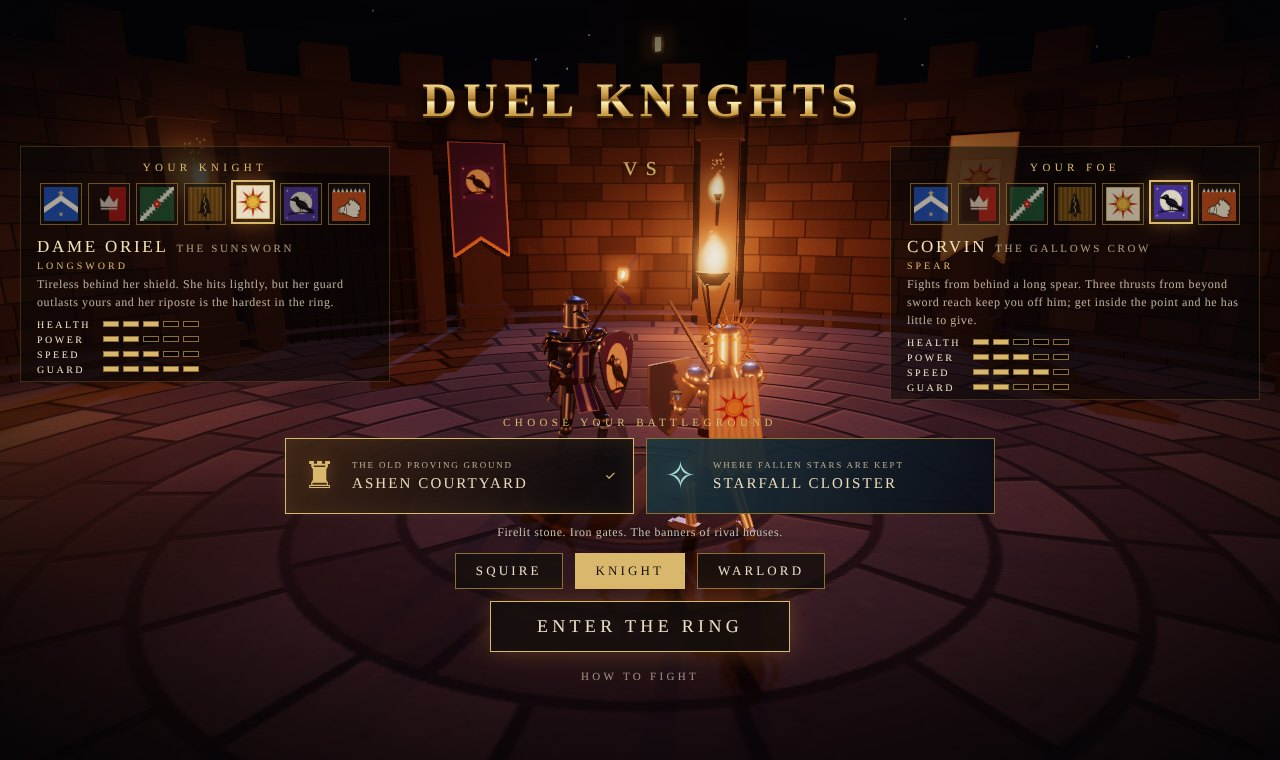
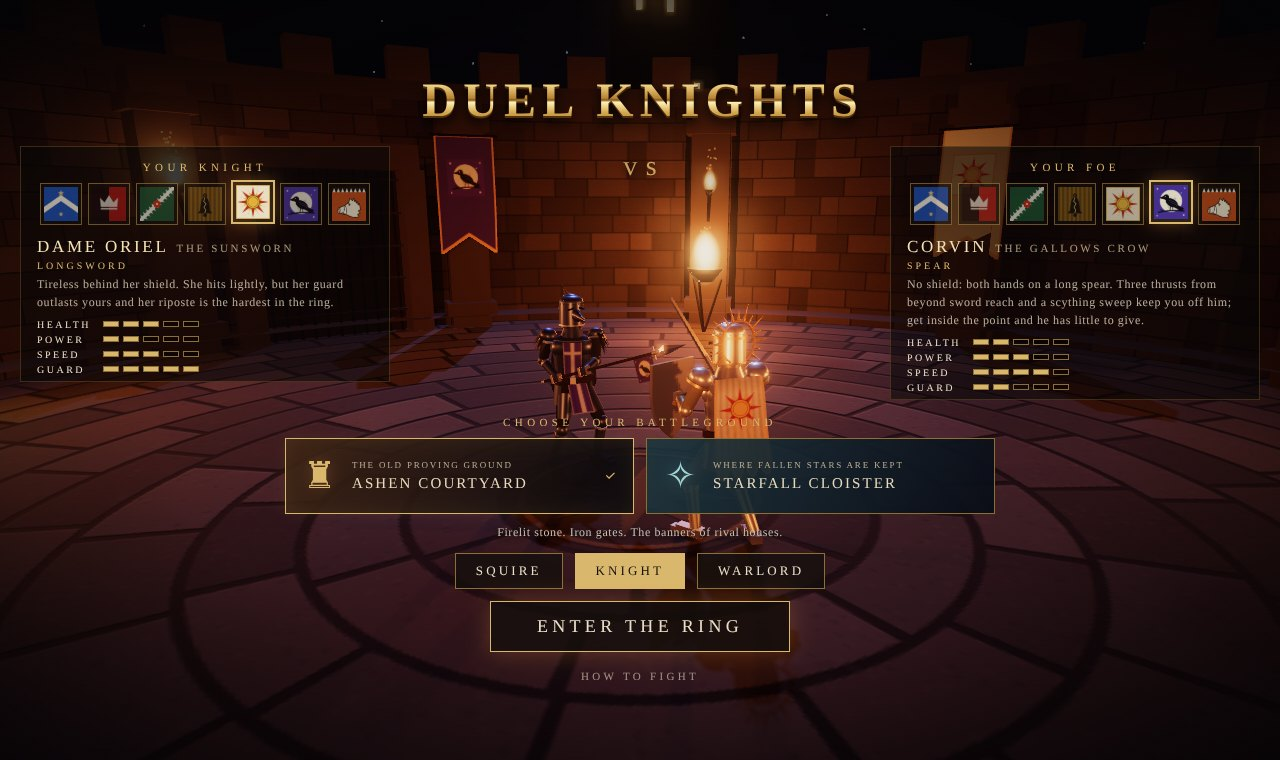
Fix raised elbows, turn the axe edge into its cuts, give Corvin a two-handed spear
Elbows (all knights): the arm solver always pointed the elbow down and
back, so an arm raised for an overhead or in the victory pose folded
behind the head. The elbow now swings out to the front as the hand rises
past the shoulder.

Axe: the head was fixed in the hand, so Sigrun's two sideways cuts landed
with the flat. A weapon flagged `edge` now turns in the hand so its edge
leads each attack's direction of travel (worked out per move from its
keyframes), easing in over the windup and out over the recovery.

Corvin: no shield, both hands on a two-metre spear.
- The right hand drives the spear from the butt; the left takes the haft
  where it passes the chest, lets it slide during thrusts and lets go when
  it is out of reach (staggers, the one-handed victory pose).
- His guard is the haft thrown across the body; blows are tested against
  the haft between the hands instead of a shield.
- The heavy is now a scything sweep, left to right at chest height,
  replacing the overhand stab. The three thrusts are re-posed for two
  hands.
- His arms fly on a pennon under the spearhead, now that he has no shield.
- Weapons can override any named pose; staggers return to the weapon's own
  guard.

Balance over 32 AI-vs-AI matches per pairing: every knight between 44% and
55% (Corvin 47, Sigrun 52, Oriel 49).

Claude-Session: https://claude.ai/code/session_01GR2nA9mo2KuG2KDQ4hQ3gR

diff --git a/src/fighter.js b/src/fighter.js
@@ -53,7 +53,15 @@ class Trail{
 
 /* ───────────────────────── fighter ───────────────────────── */
 const _q={hInv:new THREE.Quaternion(),cInv:new THREE.Quaternion(),all:new THREE.Quaternion(),d:new THREE.Quaternion(),f:new THREE.Quaternion(),
-  m:new THREE.Matrix4(),x:V(),y:V(),z:V(),t:V(),pole:V(),e:new THREE.Euler(0,0,0,'YXZ')};
+  m:new THREE.Matrix4(),x:V(),y:V(),z:V(),t:V(),pole:V(),e:new THREE.Euler(0,0,0,'YXZ'),
+  wq:new THREE.Quaternion(),wr:V(),wy:V(),g:V(),v:V()};
+const smooth=u=>{u=clamp(u,0,1);return u*u*(3-2*u);};
+/** where an elbow points. Low hands keep it down and back; as the hand rises past the shoulder it swings
+    out to the front, so a raised arm folds forward over the shoulder instead of bending behind the head. */
+const elbow=(pole,side,handY)=>{const k=smooth((handY-SH_R.y+.12)/.42);return pole.set(side*(.55+.25*k),-1+.9*k,-.35+1.05*k);};
+/* a two-handed weapon: the left hand takes the haft nearest this point in front of the chest (chest frame),
+   lets it slide between GRIP[0] and GRIP[1] from the right hand, and lets go when the haft is out of reach */
+const GRIP_AT=V(.15,.2,.34),GRIP=[.12,.55];
 export class Fighter{
   /** char: an entry from characters.js · look: optional overrides (used for mirror matches) */
   constructor(char,isPlayer,look={}){
@@ -85,12 +93,14 @@ export class Fighter{
     this.blocking=false;this.blockT=9;this.lastBlockDown=-9;this.parryOK=false;this.iframes=false;
     this.buf=null;this.bufT=0;this.swingHit=false;this.swingContact=false;this.chainLock=false;
     this.flP=0;this.flPv=0;this.flR=0;this.flRv=0;this.walk=0;this.t=0;this.stance=null;this.stepSide=0;this.victory=false;this.rest=false;
-    this.dodgeDir=V();this.trail.str.fill(0);this.setStance('guard',.01);this.clip.t=1;
+    this.dodgeDir=V();this.roll=0;this.gripW=0;this.trail.str.fill(0);this.setStance('guard',.01);this.clip.t=1;
     this.animate(0);this.root.updateMatrixWorld(true);this.readBlade();this.pBlade[0].copy(this.blade[0]);this.pBlade[1].copy(this.blade[1]);
   }
   get fwd(){return _q.t.set(Math.sin(this.yaw),0,Math.cos(this.yaw));}
   setClip(keys){this.clip={t:0,keys:[{t:0,p:this.pose.slice(),e:0},...keys]};}
-  setStance(n,t=.16){if(this.stance!==n){this.stance=n;this.setClip([{t,p:this.weapon.poses?.[n]||POSE[n],e:1}]);}}
+  /** a named pose, as this fighter's weapon holds it */
+  poseOf(n){return this.weapon.poses?.[n]||POSE[n];}
+  setStance(n,t=.16){if(this.stance!==n){this.stance=n;this.setClip([{t,p:this.poseOf(n),e:1}]);}}
   useStam(c){if(this.stam<=0){if(this.isPlayer)this.onStamFail();return false;}
     this.stam-=c;this.regenDelay=.85;if(this.stam<=0){this.stam=0;this.regenDelay=1.6;}return true;}
   startAttack(id){
@@ -105,16 +115,17 @@ export class Fighter{
     if(m>.25)this.dodgeDir.set(I.mx/m,0,I.mz/m);else this.dodgeDir.copy(this.fwd).multiplyScalar(-1);
     this.state='dodge';this.st=0;this.stDur=.44;this.blocking=false;this.lastBlockDown=this.t;this.stance=null;this.buf=null;
     const side=this.dodgeDir.x*Math.cos(this.yaw)-this.dodgeDir.z*Math.sin(this.yaw);
-    const dp=POSE.dodge.slice();dp[14]=-side*.35;
-    this.setClip([{t:.1,p:dp,e:2},{t:.3,p:dp,e:0},{t:.44,p:POSE.guard,e:1}]);
+    const dp=this.poseOf('dodge').slice();dp[14]=-side*.35;
+    this.setClip([{t:.1,p:dp,e:2},{t:.3,p:dp,e:0},{t:.44,p:this.poseOf('guard'),e:1}]);
     Snd.dodge();FX.dust(this.pos,3);this.emit('dodge');return true;
   }
   stun(kind,dur){
     this.state=kind;this.st=0;this.stDur=dur;this.blocking=false;this.lastBlockDown=this.t;this.stance=null;this.buf=null;this.atk=null;this.iframes=false;
-    if(kind==='hit'){const s=Math.random()<.5?1:-1;this.setClip([K(.08,{cy:s*.4,cp:-.26,hy:-.04,rh:[-.52,.2,.1],rd:[-.5,.5,.7],lh:[.4,.25,.2],ld:[.6,0,.8]},2),K(dur+.1,{})]);}
-    else if(kind==='parried')this.setClip([{t:.12,p:POSE.stagger,e:2},K(dur-.25,{cy:.36,cp:-.24,hy:-.08,rh:[-.62,.22,.0],rd:[-.8,.05,.6],lh:[.5,.2,.1],ld:[.9,0,.4]},0),K(dur,{})]);
-    else if(kind==='broken')this.setClip([{t:.12,p:POSE.broken,e:2},{t:dur-.25,p:POSE.broken,e:0},K(dur,{})]);
-    else this.setClip([K(.08,{cy:-.5,cp:-.15,rh:[-.55,.55,-.05],rd:[-.5,.8,-.2]},2),K(dur,{})]);
+    const G=(t,e=1)=>({t,p:this.poseOf('guard'),e}); // every stagger ends back in this weapon's guard
+    if(kind==='hit'){const s=Math.random()<.5?1:-1;this.setClip([K(.08,{cy:s*.4,cp:-.26,hy:-.04,rh:[-.52,.2,.1],rd:[-.5,.5,.7],lh:[.4,.25,.2],ld:[.6,0,.8]},2),G(dur+.1)]);}
+    else if(kind==='parried')this.setClip([{t:.12,p:POSE.stagger,e:2},K(dur-.25,{cy:.36,cp:-.24,hy:-.08,rh:[-.62,.22,.0],rd:[-.8,.05,.6],lh:[.5,.2,.1],ld:[.9,0,.4]},0),G(dur)]);
+    else if(kind==='broken')this.setClip([{t:.12,p:POSE.broken,e:2},{t:dur-.25,p:POSE.broken,e:0},G(dur)]);
+    else this.setClip([K(.08,{cy:-.5,cp:-.15,rh:[-.55,.55,-.05],rd:[-.5,.8,-.2]},2),G(dur)]);
   }
   turn(rate,dt){const d=angDiff(this.yaw,this.intent.face),m=rate*dt;this.yaw+=clamp(d,-m,m);}
   update(dt){
@@ -194,13 +205,27 @@ export class Fighter{
     // right arm → weapon
     Q.t.set(p[0],p[1],p[2]).applyQuaternion(Q.hInv).sub(CHEST_OFF).applyQuaternion(Q.cInv);
     Q.y.set(p[3],p[4],p[5]).normalize();Q.x.crossVectors(Q.y,UP);if(Q.x.lengthSq()<1e-4)Q.x.set(1,0,0);Q.x.normalize();Q.z.crossVectors(Q.x,Q.y);
+    if(this.weapon.edge){ // a one-edged weapon turns in the hand so its edge (the hand's −Z) leads the cut
+      let roll=0;const a=this.atk;
+      if(this.state==='attack'&&a){const st=this.st,v=Q.v.fromArray(a.swing);v.addScaledVector(Q.y,-v.dot(Q.y));
+        const w=st<a.wind?smooth((st/a.wind-.2)/.6):st<a.wind+a.act?1:1-smooth((st-a.wind-a.act)/(a.rec*.6));
+        if(v.lengthSq()>.04)roll=Math.atan2(v.dot(Q.x),-v.dot(Q.z))*w;}
+      this.roll=dt>0?damp(this.roll,roll,26,dt):roll;
+      const c=Math.cos(this.roll),sn=Math.sin(this.roll);Q.v.copy(Q.x);Q.x.multiplyScalar(c).addScaledVector(Q.z,sn);Q.z.multiplyScalar(c).addScaledVector(Q.v,-sn);
+    }
     Q.d.setFromRotationMatrix(Q.m.makeBasis(Q.x,Q.y,Q.z)).premultiply(Q.all);
-    ik2(b.uaR,b.faR,SH_R,Q.t,Q.pole.set(-.55,-1,-.35),UA,FA,Q.f);b.hR.quaternion.copy(Q.f).invert().multiply(Q.d);
-    // left arm → shield
+    Q.wr.copy(Q.t);Q.wq.copy(Q.d);Q.wy.copy(Q.y).applyQuaternion(Q.all); // the weapon in the chest's frame, for a second hand
+    ik2(b.uaR,b.faR,SH_R,Q.t,elbow(Q.pole,-1,Q.t.y),UA,FA,Q.f);b.hR.quaternion.copy(Q.f).invert().multiply(Q.d);
+    // left arm → shield, or the haft of a two-handed weapon
     Q.t.set(p[6],p[7],p[8]).applyQuaternion(Q.hInv).sub(CHEST_OFF).applyQuaternion(Q.cInv);
     Q.z.set(p[9],p[10],p[11]).normalize();Q.x.crossVectors(UP,Q.z).normalize();Q.y.crossVectors(Q.z,Q.x);
     Q.d.setFromRotationMatrix(Q.m.makeBasis(Q.x,Q.y,Q.z)).premultiply(Q.all);
-    ik2(b.uaL,b.faL,SH_L,Q.t,Q.pole.set(.6,-1,-.3),UA,FA,Q.f);b.hL.quaternion.copy(Q.f).invert().multiply(Q.d);
+    if(this.weapon.twoHanded){
+      const g=clamp(Q.g.copy(GRIP_AT).sub(Q.wr).dot(Q.wy),GRIP[0],GRIP[1]);Q.g.copy(Q.wr).addScaledVector(Q.wy,g);
+      const w=this.gripW=smooth((Q.g.distanceTo(SH_L)-(UA+FA)*.97)/.14); // 0 = holding the haft, 1 = let go (the pose's own left hand)
+      Q.t.lerpVectors(Q.g,Q.t,w);Q.d.slerpQuaternions(Q.wq,Q.d,w);
+    }
+    ik2(b.uaL,b.faL,SH_L,Q.t,elbow(Q.pole,1,Q.t.y),UA,FA,Q.f);b.hL.quaternion.copy(Q.f).invert().multiply(Q.d);
     // legs: planted stance + stride cycle
     const A_=.25*amp,dxl=sp>.01?lx/sp:0,dzl=sp>.01?lz/sp:0;
     for(let s=0;s<2;s++){

diff --git a/src/moves.js b/src/moves.js
@@ -65,24 +65,37 @@ export const MACE={
   heavy:slow(maceHeavy,1.1,{dmg:30,cost:30,lunge:3.5,stun:.72,kb:6.8,bs:50,chip:5}),
 };
 
-/* the spear — all point. Three thrusts from well outside sword reach and an overhand stab.
+/* the spear — held in both hands, no shield: the right hand at the butt drives it, the haft slides through the left.
+   Three thrusts from well outside sword reach, then a scything sweep with the whole length of the haft.
    Light on stamina and it shoves the foe back, but each wound is small and a shield turns it easily. */
-const JAB={cy:.36,cp:.16,hy:-.08,hz:.16,sf:.22,rh:[-.10,.40,.56],rd:[.02,0,1]},
-  JAB2={cy:.38,cp:.13,hy:-.06,hz:.14,sf:.2,rh:[-.08,.52,.56],rd:[0,.05,1]},
-  LUNGE={cy:.5,cp:.26,hy:-.16,hz:.26,sf:.36,rh:[-.06,.36,.58],rd:[.02,-.02,1]},
-  STAB={cy:.4,cp:.38,hy:-.16,hz:.16,sf:.3,rh:[-.08,.5,.56],rd:[.02,-.5,.87]};
+const SG={cy:-.55,rh:[-.2,.1,0],rd:[.24,.32,.92]};                    // on guard: butt at the right hip, point at the foe's throat
+const S=(t,o={},e=0)=>({t,p:P({...SG,...o}),e});
+const JAB={cy:-.45,cp:.14,hy:-.08,hz:.16,sf:.22,rh:[-.1,.3,.28],rd:[.04,.04,1]},
+  JAB2={cy:-.45,cp:.12,hy:-.06,hz:.14,sf:.2,rh:[-.1,.4,.28],rd:[.02,.08,1]},
+  LUNGE={cy:-.4,cp:.26,hy:-.16,hz:.28,sf:.36,rh:[-.08,.3,.3],rd:[.03,0,1]},
+  SWEPT={cy:-.55,cp:.18,hy:-.12,hz:.16,sf:.25,rh:[.2,.32,.01],rd:[-.55,-.02,.84]};
+export const SPEAR_POSES={
+  guard:P(SG),
+  block:P({cy:-.3,cp:.06,hy:-.06,rh:[-.27,.26,.28],rd:[.86,.34,.38]}),       // the haft thrown across the body
+  parryPunch:P({cy:-.5,cp:.1,hy:-.05,rh:[-.26,.32,.4],rd:[.84,.3,.45]}),
+  dodge:P({cy:-.3,cp:.4,hy:-.24,rh:[-.2,.1,.04],rd:[.2,.26,.94]}),
+  // one-handed: planted upright at the side, the free hand open
+  taunt:P({cy:.1,cp:-.03,hy:.02,rh:[-.46,.12,.14],rd:[-.32,.9,.28],lh:[.38,.10,.12],ld:[.85,0,.5]}),
+  rest:P({cy:0,cp:0,rh:[-.42,.2,.12],rd:[-.05,1,.07],lh:[.3,.15,.22],ld:[.5,0,.86]}),
+};
 export const SPEAR={
   l1:{kind:'light',next:'l2',wind:.27,act:.10,rec:.40,dmg:7,cost:10,lunge:2.6,stun:.28,kb:3.0,bs:10,chip:0,keys:[
-    A(.27,{cy:-.5,hy:-.04,rh:[-.38,.36,-.06],rd:[.04,.06,1]},2),A(.33,JAB,3),A(.44,JAB),K(.77,{})]},
+    S(.27,{cy:-.8,hy:-.04,rh:[-.3,.16,-.2],rd:[.14,.16,.98]},2),S(.33,JAB,3),S(.44,JAB),S(.77,{},1)]},
   l2:{kind:'light',next:'l3',wind:.21,act:.10,rec:.42,dmg:8,cost:10,lunge:2.4,stun:.28,kb:3.0,bs:10,chip:0,keys:[
-    A(.21,{cy:-.45,hy:-.03,rh:[-.36,.48,-.02],rd:[.03,0,1]},2),A(.27,JAB2,3),A(.38,JAB2),K(.73,{})]},
+    S(.21,{cy:-.8,hy:-.03,rh:[-.3,.24,-.18],rd:[.12,.1,.99]},2),S(.27,JAB2,3),S(.38,JAB2),S(.73,{},1)]},
   l3:{kind:'light',next:null,wind:.30,act:.12,rec:.60,dmg:12,cost:13,lunge:3.6,stun:.36,kb:4.4,bs:14,chip:0,keys:[
-    A(.30,{cy:-.65,hy:-.08,rh:[-.38,.30,-.1],rd:[.05,.08,1]},2),A(.37,LUNGE,3),A(.56,LUNGE),K(1.02,{})]},
-  heavy:{kind:'heavy',next:null,wind:.60,act:.14,rec:.64,dmg:22,cost:25,lunge:3.6,stun:.58,kb:6.2,bs:34,chip:3,poise:.3,keys:[
-    A(.26,{cy:-.3,cp:-.06,rh:[-.36,.72,-.02],rd:[0,.5,.86]},1),
-    A(.60,{cy:-.5,cp:-.14,hy:.03,rh:[-.34,1.0,-.2],rd:[.02,-.2,.98]},2),   // couched overhead, point on the foe
-    A(.66,{cy:.1,cp:.2,hy:-.08,hz:.1,rh:[-.16,.8,.3],rd:[.02,-.38,.92]},3),
-    A(.72,STAB),A(.94,STAB),K(1.38,{})]},
+    S(.30,{cy:-.9,hy:-.1,rh:[-.3,.12,-.24],rd:[.14,.14,.98]},2),S(.37,LUNGE,3),S(.56,LUNGE),S(1.02,{},1)]},
+  heavy:{kind:'heavy',next:null,wind:.60,act:.14,rec:.64,dmg:22,cost:25,lunge:3.2,stun:.58,kb:6.2,bs:34,chip:3,poise:.3,keys:[
+    S(.26,{cy:.1,cp:-.04,rh:[-.26,.26,.12],rd:[.7,.2,.68]},1),               // the point swings out to the left…
+    S(.60,{cy:.35,cp:-.08,hy:.02,rh:[-.27,.25,.13],rd:[.86,.22,.46]},2),     // …and is wound back
+    S(.66,{cy:0,cp:.1,hy:-.06,hz:.08,rh:[-.05,.3,.02],rd:[.2,.08,.98]},3),
+    S(.72,{cy:-.4,cp:.16,hy:-.1,hz:.14,sf:.2,rh:[.16,.32,.02],rd:[-.42,0,.9]}),
+    S(.76,SWEPT),S(.96,SWEPT),S(1.40,{},1)]},
 };
 
 /* the war axe — two hewing cuts into a chop. It bites deepest of all on flesh,
@@ -99,10 +112,17 @@ export const AXE={
   heavy:slow(SWORD.heavy,1.04,{dmg:34,cost:27,lunge:3.3,stun:.66,kb:6,bs:40,chip:3}),
 };
 
+/** which way an attack's point travels while it can wound, in the knight's frame (for turning an edge into the cut) */
+function swingDir(a){
+  const tip=t=>{const k=a.keys;let i=1;while(i<k.length-1&&t>k[i].t)i++;const A=k[i-1].p,B=k[i].p,u=Math.min(1,Math.max(0,(t-k[i-1].t)/(k[i].t-k[i-1].t||1)));
+    const q=j=>A[j]+(B[j]-A[j])*u,l=Math.hypot(q(3),q(4),q(5))||1;return [q(0)+q(3)/l*.8,q(1)+q(4)/l*.8,q(2)+q(5)/l*.8];};
+  const p0=tip(a.wind),p1=tip(a.wind+a.act),d=[p1[0]-p0[0],p1[1]-p0[1],p1[2]-p0[2]],l=Math.hypot(...d)||1;
+  return d.map(v=>v/l);
+}
 /** a fighter's own copy of a moveset, scaled by their attack speed and damage */
 export function buildMoves(base,{atkSpeed=1,dmg=1,heavyDmg=1}={}){
   const out={},f=1/atkSpeed;
   for(const id in base){const a=base[id];
-    out[id]=slow(a,f,{dmg:a.dmg*dmg*(a.kind==='heavy'?heavyDmg:1)});}
+    out[id]=slow(a,f,{dmg:a.dmg*dmg*(a.kind==='heavy'?heavyDmg:1),swing:swingDir(a)});}
   return out;
 }

diff --git a/src/knight.js b/src/knight.js
@@ -8,7 +8,7 @@ import {WEAPONS} from './weapons.js';
    Every knight shares one skeleton; the look options change the armour.
    o: steel, rough, trim, mail, cloth, blade (colours) · emblem · crest (fin colour)
       helm ('plume'|'horned'|'crest'|'great'|'sun'|'beak'|'boar') · mantle ('fur'|'feather': what lies over the shoulders)
-      shield ('heater'|'round'|'kite') · scale (whole body) · bulk (pauldron size) · weapon (key into WEAPONS)
+      shield ('heater'|'round'|'kite'|'none') · scale (whole body) · bulk (pauldron size) · weapon (key into WEAPONS)
       capeW, capeL (cape size; its design comes from the emblem, see CAPES in textures.js) */
 export const HIP_Y=.88, UA=.29, FA=.27, TH=.45, SHN=.43, ANKLE=.07;
 export const CHEST_OFF=V(0,.10,0), SH_R=V(-.25,.45,0), SH_L=V(.25,.45,0), HJ_L=V(.11,-.03,0), HJ_R=V(-.11,-.03,0);
@@ -169,18 +169,24 @@ export function buildKnight(o){
   };
   const lL=leg(1,HJ_L),lR=leg(-1,HJ_R);
   // weapon (grip along +Y of the hand)
-  const W=WEAPONS[o.weapon||'sword'].build({add,grp,cyl,box,sph,m},aR.hand);
-  // shield (faces +Z of the left hand)
-  const shield=grp(aL.hand,0,.02,.075);
-  const SK=SHIELDS[o.shield]||SHIELDS.heater,sh=SK.top-SK.bot,round=o.shield==='round';
-  const shp=new THREE.Shape();SK.draw(shp);shp.closePath();
-  const et=tex(emblemCanvas(o.emblem));et.repeat.set(1/SK.w,1/sh);et.offset.set(.5,-SK.bot/sh); // shape coordinates → the whole coat of arms
-  const face=new THREE.Mesh(new THREE.ShapeGeometry(shp,round?16:10),new THREE.MeshStandardMaterial({map:et,roughness:.55,metalness:.25,envMapIntensity:.6}));face.position.z=.033;face.castShadow=true;shield.add(face);
-  const body=add(new THREE.ExtrudeGeometry(shp,{depth:.03,bevelEnabled:false,curveSegments:round?16:10}),steel,shield);body.scale.set(1.05,1.05,1);body.position.y=round?-.0015:-.002;
-  if(round){add(new THREE.TorusGeometry(.292,.014,6,28),trim,shield,0,-.03,.03); // an iron rim and studs; no boss, so the arms stay whole
-    baked(shield,g=>{for(let i=0;i<8;i++){const a=i/8*Math.PI*2+.39;add(sph(.014,6,5),steel,g,Math.sin(a)*.262,-.03+Math.cos(a)*.262,.036);}});}
-  else add(sph(.05,10,8),trim,shield,0,-.02,.035).scale.z=.6;
-  const shieldC=grp(shield,0,-.03,.02);
+  const arms=()=>new THREE.MeshStandardMaterial({map:tex(emblemCanvas(o.emblem)),roughness:.7,metalness:.1,envMapIntensity:.4});
+  const W=WEAPONS[o.weapon||'sword'].build({add,grp,cyl,box,sph,m,arms},aR.hand);
+  // shield (faces +Z of the left hand). shieldC is the centre of the guard that blows are tested against;
+  // a knight with no shield guards with the weapon itself, between the hands.
+  const shield=grp(aL.hand,0,.02,.075);let shieldC;
+  if(o.shield==='none')shieldC=grp(W.g,0,.3,0);
+  else{
+    const SK=SHIELDS[o.shield]||SHIELDS.heater,sh=SK.top-SK.bot,round=o.shield==='round';
+    const shp=new THREE.Shape();SK.draw(shp);shp.closePath();
+    const fm=arms();fm.roughness=.55;fm.metalness=.25;fm.envMapIntensity=.6;
+    fm.map.repeat.set(1/SK.w,1/sh);fm.map.offset.set(.5,-SK.bot/sh); // shape coordinates → the whole coat of arms
+    const face=new THREE.Mesh(new THREE.ShapeGeometry(shp,round?16:10),fm);face.position.z=.033;face.castShadow=true;shield.add(face);
+    const body=add(new THREE.ExtrudeGeometry(shp,{depth:.03,bevelEnabled:false,curveSegments:round?16:10}),steel,shield);body.scale.set(1.05,1.05,1);body.position.y=round?-.0015:-.002;
+    if(round){add(new THREE.TorusGeometry(.292,.014,6,28),trim,shield,0,-.03,.03); // an iron rim and studs; no boss, so the arms stay whole
+      baked(shield,g=>{for(let i=0;i<8;i++){const a=i/8*Math.PI*2+.39;add(sph(.014,6,5),steel,g,Math.sin(a)*.262,-.03+Math.cos(a)*.262,.036);}});}
+    else add(sph(.05,10,8),trim,shield,0,-.02,.035).scale.z=.6;
+    shieldC=grp(shield,0,-.03,.02);
+  }
   const bones={root,hips,chest,head,cape,skirt,uaR:aR.ua,faR:aR.fa,hR:aR.hand,uaL:aL.ua,faL:aL.fa,hL:aL.hand,
     thL:lL.th,shL:lL.sh,ftL:lL.ft,thR:lR.th,shR:lR.sh,ftR:lR.ft,weapon:W.g,bBase:W.base,bTip:W.tip,shield,shieldC};
   // remember rest transforms so the ragdoll can be undone

diff --git a/src/weapons.js b/src/weapons.js
@@ -1,12 +1,15 @@
 import * as THREE from 'three';
 import {TAU} from './util.js';
-import {P,SWORD,MACE,SPEAR,AXE} from './moves.js';
+import {SWORD,MACE,SPEAR,SPEAR_POSES,AXE} from './moves.js';
 
 /* A weapon is held along +Y of the right hand.
    build() returns the weapon group plus two markers: `base` and `tip` bound the
    segment that is swept for hits. `radius` thickens that segment (a mace head is fat);
    `reach` tells the AI how far it can strike relative to a longsword.
-   `poses` (optional) replaces stances from POSE (moves.js) that do not suit the weapon. */
+   Optional: `poses` replaces stances from POSE (moves.js) that do not suit the weapon;
+   `twoHanded` puts the left hand on the haft (pair it with the look's shield:'none');
+   `edge` marks a one-edged head, built facing the hand's −Z, that turns to lead each cut.
+   build() also gets `arms()`, a material painted with the knight's coat of arms. */
 export const WEAPONS={
   sword:{name:'Longsword',moves:SWORD,radius:0,reach:1,blunt:false,
     build({add,grp,cyl,box,sph,m},hand){
@@ -30,23 +33,21 @@ export const WEAPONS={
       add(new THREE.ConeGeometry(.022,.08,6),m.blade,g,0,.9,0);   // crown spike
       return {g,base:grp(g,0,.42,0),tip:grp(g,0,.88,0)};
     }},
-  // long enough to bury its point in the ground from a sword's resting stances, so it is carried upright instead
-  spear:{name:'Spear',moves:SPEAR,radius:.012,reach:1.3,blunt:false,
-    poses:{rest:P({cy:0,cp:0,rh:[-.37,.2,.12],rd:[-.05,1,.07],lh:[.3,.15,.22],ld:[.5,0,.86]}),
-      taunt:P({cy:.1,cp:-.03,hy:.02,rh:[-.46,.12,.14],rd:[-.32,.9,.28],lh:[.38,.10,.12],ld:[.85,0,.5]})},
-    build({add,grp,cyl,box,m},hand){
-      const g=grp(hand);
-      add(cyl(.015,.017,1.6,8),m.leather,g,0,.4,0);                      // ash haft
-      add(new THREE.ConeGeometry(.02,.07,6),m.trim,g,0,-.43,0,Math.PI);   // butt spike
-      add(cyl(.021,.021,.2,8),m.trim,g);                                  // grip binding
-      add(cyl(.016,.024,.09,8),m.trim,g,0,1.2,0);                         // socket
-      add(box(.014,.014,.13),m.trim,g,0,1.17,0);                          // lugs
-      const sock=add(new THREE.CylinderGeometry(.05,.016,.07,4),m.blade,g,0,1.265,0);sock.scale.x=.3;
-      const head=add(new THREE.ConeGeometry(.05,.27,4),m.blade,g,0,1.435,0);head.scale.x=.3;
-      add(box(.004,.07,.17),m.cloth,g,0,1.1,-.1);add(box(.004,.04,.07),m.cloth,g,0,1.085,-.21); // pennon
-      return {g,base:grp(g,0,.5,0),tip:grp(g,0,1.56,0)};
+  spear:{name:'Spear',moves:SPEAR,radius:.012,reach:1.3,blunt:false,twoHanded:true,poses:SPEAR_POSES,
+    build({add,grp,cyl,box,m,arms},hand){
+      const g=grp(hand);                                                  // gripped near the butt: two metres of ash ahead of the hand
+      add(cyl(.015,.017,1.66,8),m.leather,g,0,.61,0);                     // haft
+      add(new THREE.ConeGeometry(.02,.07,6),m.trim,g,0,-.25,0,Math.PI);   // butt spike
+      add(cyl(.021,.021,.16,8),m.trim,g);add(cyl(.02,.02,.1,8),m.trim,g,0,.42,0); // bindings under each hand
+      add(cyl(.016,.024,.09,8),m.trim,g,0,1.44,0);                        // socket
+      add(box(.014,.014,.13),m.trim,g,0,1.41,0);                          // lugs
+      const sock=add(new THREE.CylinderGeometry(.05,.016,.07,4),m.blade,g,0,1.505,0);sock.scale.x=.3;
+      const head=add(new THREE.ConeGeometry(.05,.27,4),m.blade,g,0,1.675,0);head.scale.x=.3;
+      const flag=new THREE.PlaneGeometry(.24,.24);flag.rotateY(Math.PI/2);flag.rotateX(Math.PI/2); // a pennon of his arms hung under the head, upright when the spear is levelled
+      const fm=arms();fm.side=THREE.DoubleSide;add(flag,fm,g,0,1.25,-.135);
+      return {g,base:grp(g,0,.62,0),tip:grp(g,0,1.8,0)};
     }},
-  axe:{name:'War axe',moves:AXE,radius:.035,reach:.95,blunt:false,
+  axe:{name:'War axe',moves:AXE,radius:.035,reach:.95,blunt:false,edge:true,
     build({add,grp,cyl,sph,m},hand){
       const g=grp(hand);
       add(cyl(.017,.02,.9,8),m.leather,g,0,.33,0);add(sph(.028,8,6),m.trim,g,0,-.125,0);

diff --git a/index.html b/index.html
@@ -186,7 +186,7 @@
   <div class="keys">
     <b>W A S D</b><span>Move — you face where the mouse aims</span>
     <b>Left click</b><span>Light attack — swords, the spear and the axe chain three blows, the mace two</span>
-    <b>Right click</b><span>Heavy overhead — slow, crushes guards. Tap Space mid-windup to feint</span>
+    <b>Right click</b><span>Heavy attack — slow, crushes guards. Tap Space mid-windup to feint</span>
     <b>Space</b><span>Block. Raise it just before the blow lands to parry</span>
     <b>Shift</b><span>Dodge toward your movement keys</span>
     <b>Q</b><span>Focus (lock facing onto your foe)</span>
@@ -194,7 +194,7 @@
   </div>
   <div class="note" style="margin:0 0 24px">Every action costs stamina — an empty bar breaks your guard. Weapons only wound what they actually touch.<br>
     A mace drains your guard fast and its blows bleed through the shield: dodge it, or parry it.<br>
-    A spear strikes from beyond sword reach, so close the distance. An axe hits hardest of all, but a raised shield shrugs it off.</div>
+    A spear thrusts from beyond sword reach and its heavy is a wide sweep, so step inside the point. An axe hits hardest of all, but a raised shield shrugs it off.</div>
   <button class="main" id="howBack">Back</button>
 </div>
 

diff --git a/src/combat.js b/src/combat.js
@@ -2,7 +2,7 @@ import {rand,angDiff,segSeg,V} from './util.js';
 import {Snd} from './audio.js';
 import {FX} from './fx.js';
 import {Ragdoll} from './ragdoll.js';
-import {POSE,PARRY_WINDOW} from './moves.js';
+import {PARRY_WINDOW} from './moves.js';
 
 /* combat resolution. `game` supplies stats, callouts, the vignette and endRound(). */
 let game;
@@ -46,7 +46,7 @@ function resolveBlock(A,D,pt,atk){
   if(D.parryOK&&D.blockT<=PARRY_WINDOW){ // parry
     D.parryOK=false;D.stam=Math.min(D.maxSt,D.stam+20);D.regenDelay=0;game.stats.parries[si]++;
     A.stun('parried',heavy?1.1:.95);A.vel.copy(_dir).multiplyScalar(-3);A.flPv-=6;
-    D.setClip([{t:.07,p:POSE.parryPunch,e:2},{t:.3,p:POSE.block,e:1}]);D.stance='block';
+    D.setClip([{t:.07,p:D.poseOf('parryPunch'),e:2},{t:.3,p:D.poseOf('block'),e:1}]);D.stance='block';
     FX.sparks(pt,46,9,[3,2.4,1.2]);FX.burst(pt,40);FX.stop(.15);FX.slow(.35,.3);FX.shake(.5);FX.kick(3);
     Snd.parry();game.callout('Parry');return;
   }

diff --git a/src/characters.js b/src/characters.js
@@ -64,8 +64,8 @@ export const ROSTER=[
   },
   {
     id:'corvin',name:'Corvin',title:'the Gallows Crow',
-    blurb:'Fights from behind a long spear. Three thrusts from beyond sword reach keep you off him; get inside the point and he has little to give.',
-    look:{steel:0x56608c,rough:.27,trim:0xc3c6d2,mail:0x262a3a,cloth:0x4c35a0,blade:0xd8dcec,emblem:'crow',helm:'beak',mantle:'feather',shield:'kite',bulk:.92,capeW:.44,capeL:.74,trailColor:0xc9a8ff},
+    blurb:'No shield: both hands on a long spear. Three thrusts from beyond sword reach and a scything sweep keep you off him; get inside the point and he has little to give.',
+    look:{steel:0x56608c,rough:.27,trim:0xc3c6d2,mail:0x262a3a,cloth:0x4c35a0,blade:0xd8dcec,emblem:'crow',helm:'beak',mantle:'feather',shield:'none',bulk:.92,capeW:.44,capeL:.74,trailColor:0xc9a8ff},
     alt:{cloth:0x7a1f30,trim:0xb8a06a,trailColor:0xffa8b8},
     weapon:'spear',
     stats:{hp:88,speed:3.65,dodgeCost:18,guard:1.1},

diff --git a/README.md b/README.md
@@ -24,7 +24,7 @@ loads from a CDN, so you need to be online the first time.
 |:--|:--|
 | W A S D | Move. You face where the mouse aims |
 | Left click | Light attack. Swords, the spear and the axe chain three blows, the mace two |
-| Right click | Heavy overhead. Tap Space during the windup to feint |
+| Right click | Heavy attack. Tap Space during the windup to feint |
 | Space | Block. Raise it just before a blow lands to parry |
 | Shift | Dodge toward your movement keys |
 | Q | Focus (lock facing onto your foe) |
@@ -60,7 +60,7 @@ A direct link can preselect the arena: [enter Starfall Cloister](https://bitofas
 | **Ysolde**, the Thorn | Longsword | Fast cuts, cheap dodges, big ripostes; low health |
 | **Brann**, the Bellbreaker | Flanged mace | Slow and huge. Blows drain guards and bleed through shields |
 | **Dame Oriel**, the Sunsworn | Longsword | Tireless guard and the hardest riposte in the ring; light blows |
-| **Corvin**, the Gallows Crow | Spear | Three thrusts from beyond sword reach. Fragile once you are inside the point |
+| **Corvin**, the Gallows Crow | Spear, in both hands | No shield. Three thrusts from beyond sword reach and a scything sweep. Fragile once you are inside the point |
 | **Sigrun**, the Red Tusk | War axe | All attack. Hits hardest of all, but short, costly, and weak against a raised shield |
 
 ![Brann swings his mace at Ysolde](assets/fight.jpg)
@@ -92,7 +92,7 @@ tests/browser.mjs   shared static-server / Playwright test harness
 
 Add an entry to `ROSTER` in `src/characters.js`. Anything you leave out of `stats` uses the
 defaults in `BASE_STATS` (`src/fighter.js`). A new coat of arms goes in `EMBLEMS` and its
-cape in `CAPES` (both in `src/textures.js`). The `look` picks a helm, a shield shape and what
+cape in `CAPES` (both in `src/textures.js`). The `look` picks a helm, a shield shape (or none) and what
 lies over the shoulders from the options listed at the top of `src/knight.js`. A new weapon is
 a model in `src/weapons.js` plus a moveset in `src/moves.js`. Then run the balance check.
 
